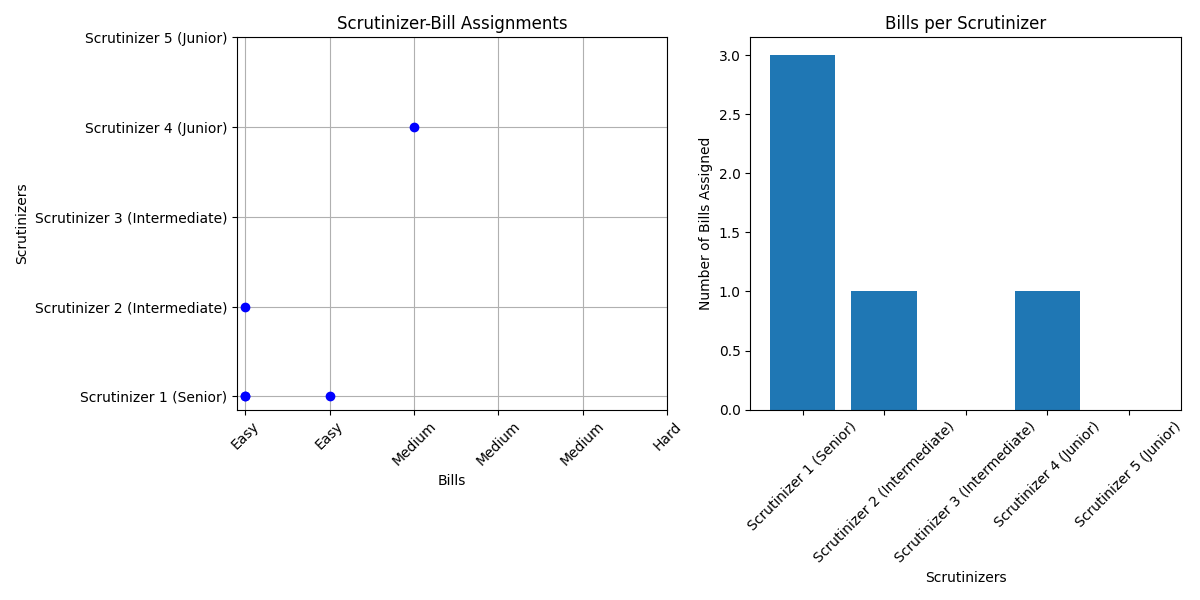
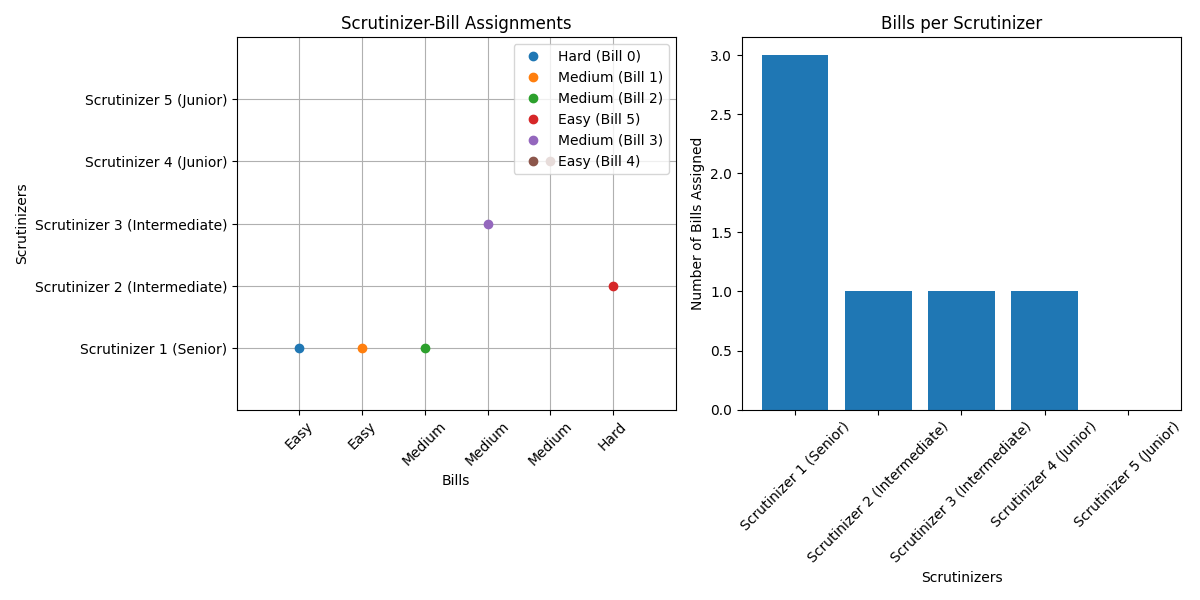
it works

diff --git a/scrutinizer_scheduling.py b/scrutinizer_scheduling.py
@@ -21,8 +21,8 @@ time_limit = 10
 Q = defaultdict(int)
 
 # Define constants for rewards and penalties
-reward = -1  # Reward for a valid assignment
-penalty = 10  # Penalty for an invalid assignment
+reward = -2  # Reward for a valid assignment
+penalty = 30  # Penalty for an invalid assignment
 time_penalty = 1  # Penalty for exceeding the time limit
 
 # Define assignment variables
@@ -44,6 +44,7 @@ for i, j in variables:
         Q[(index, index)] = reward
     else:
         Q[(index, index)] = penalty
+
 
     # Time penalties (simplified)
     # For simplicity, assume each scrutinizer works in sequential order and each bill takes a day
@@ -95,47 +96,44 @@ for i in range(n_Scrutinizers):
     level = 'Senior' if i < n_scrutinizerSenior else ('Intermediate' if i < n_scrutinizerSenior + n_scrutinizerIntermediate else 'Junior')
     scrutinizer_labels_with_levels.append(f"Scrutinizer {i+1} ({level})")
 
+# Initialize bill count with zeros for each scrutinizer
+bill_count = [0] * n_Scrutinizers
+
+# Update bill count based on assignments
+for scrutinizer, bills in assignments_with_time.items():
+    bill_count[scrutinizer] = len(bills)
+
 # Visualization for assignments
 plt.figure(figsize=(12, 6))
 
 # First subplot for Scrutinizer-Bill Assignments
 plt.subplot(1, 2, 1)
+legend_labels = set()  # Keep track of legend labels to avoid duplicates
 for scrutinizer, bills in assignments_with_time.items():
     for bill in bills:
         # Determine the correct x-position based on bill type
-        if bill < n_billEasy:
-            bill_type = 'Easy'
-            bill_x_position = bill  # Easy bill index
-        elif bill < n_billEasy + n_billMedium:
-            bill_type = 'Medium'
-            bill_x_position = bill - n_billEasy  # Medium bill index after adjusting for easy bills
+        bill_type = 'Hard' if bill < n_billHard else ('Medium' if bill < n_billHard + n_billMedium else 'Easy')
+        label = f"{bill_type} (Bill {bill})"
+        if label not in legend_labels:
+            plt.plot(bill, scrutinizer, 'o', label=label)
+            legend_labels.add(label)
         else:
-            bill_type = 'Hard'
-            bill_x_position = bill - (n_billEasy + n_billMedium)  # Hard bill index after adjusting for easy and medium bills
-        plt.plot(bill_x_position, scrutinizer, 'bo')
-
-# Generate bill labels dynamically based on the number of each type
-bill_labels = ['Easy'] * n_billEasy + ['Medium'] * n_billMedium + ['Hard'] * n_billHard
+            plt.plot(bill, scrutinizer, 'o')
 
 # Set up the plot
 plt.xlabel('Bills')
 plt.ylabel('Scrutinizers')
-plt.xticks(range(nBills), bill_labels, rotation=45)
+plt.xticks(range(nBills), ['Easy'] * n_billEasy + ['Medium'] * n_billMedium + ['Hard'] * n_billHard, rotation=45)
 plt.yticks(range(n_Scrutinizers), scrutinizer_labels_with_levels)
 plt.title('Scrutinizer-Bill Assignments')
 plt.grid(True)
+plt.legend(loc='upper right')  # Move legend to avoid overlapping
+plt.xlim(-1, nBills)  # Set x-axis limits to include all bills
+plt.ylim(-1, n_Scrutinizers)  # Set y-axis limits to include all scrutinizers
+
 
 # Second subplot for Bills per Scrutinizer
 plt.subplot(1, 2, 2)
-
-# Initialize bill count with zeros
-bill_count = [0] * n_Scrutinizers
-
-# Fill in the bill_count with the number of bills for each scrutinizer
-for scrutinizer, bills in assignments_with_time.items():
-    bill_count[scrutinizer] = len(bills)
-
-# Plotting the bar chart
 plt.bar(scrutinizer_labels_with_levels, bill_count)
 plt.xlabel('Scrutinizers')
 plt.ylabel('Number of Bills Assigned')
